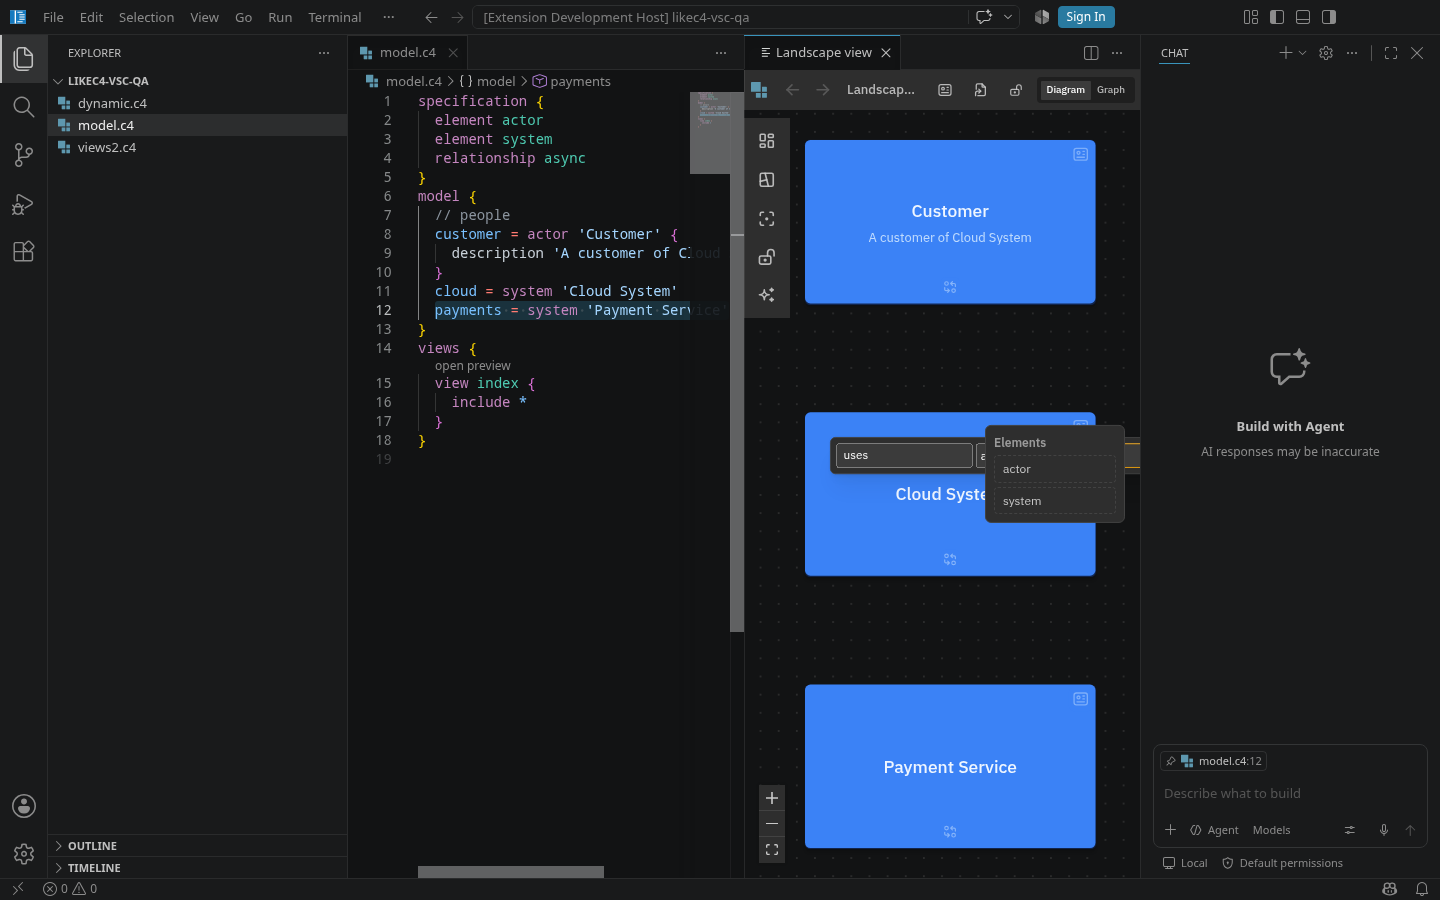
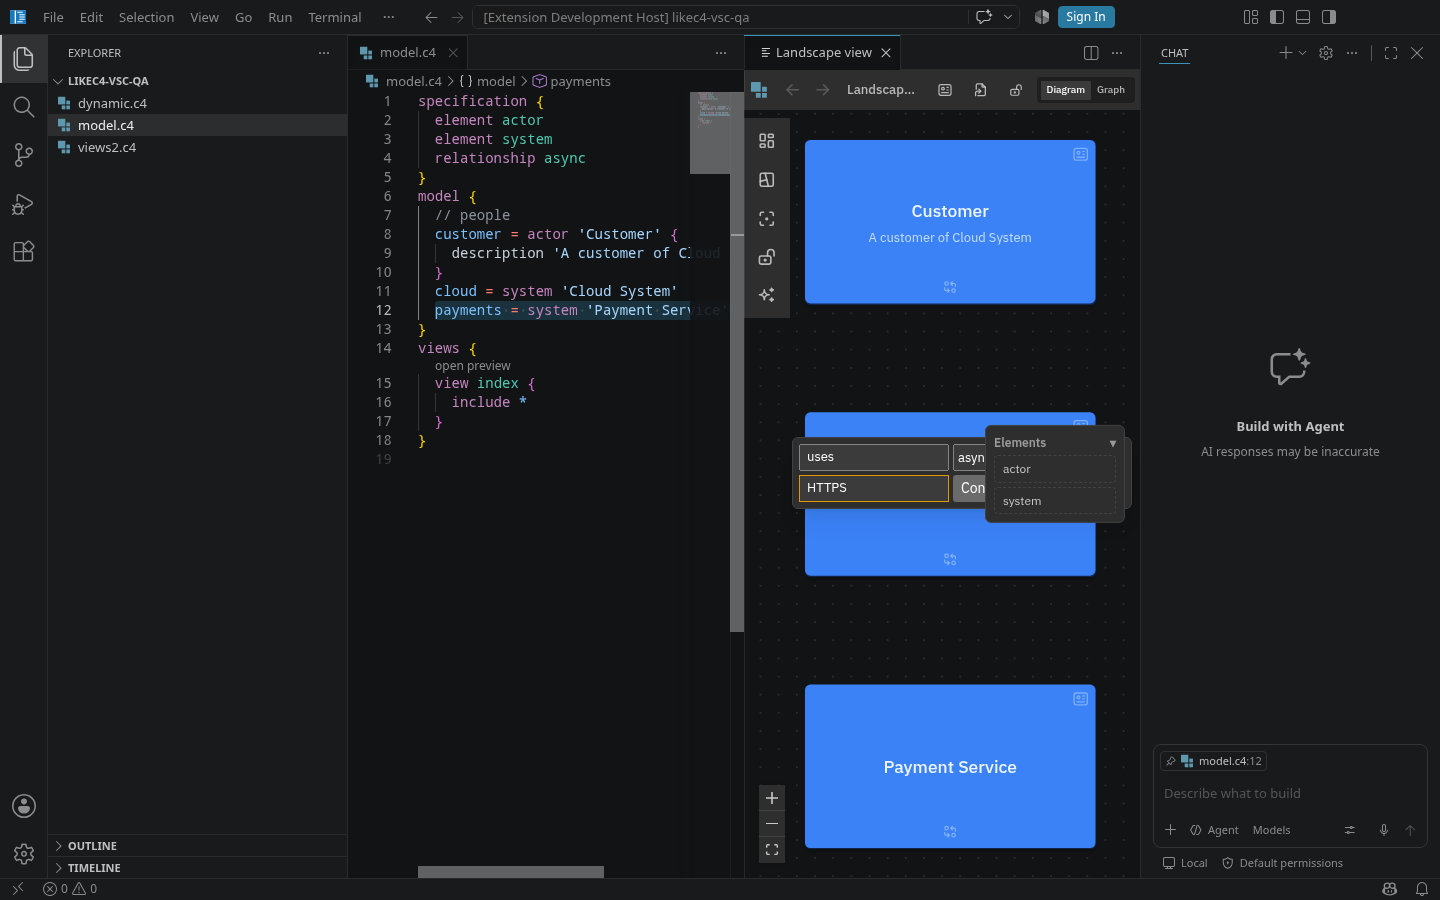
docs(visual-to-code): prompts and palette in the UI map, updated QA screenshots

Changed region(s): [[0.5312, 0.4667, 0.6875, 0.5911], [0.7812, 0.4978, 0.8125, 0.56]]

diff --git a/.compozy/tasks/visual-to-code/_uiux.md b/.compozy/tasks/visual-to-code/_uiux.md
@@ -150,6 +150,14 @@ ACs/ECs), `_dx.md` (the non-UI half of the surface).
   shows a blue info notification with the same text (auto-close 6 s).
 - **States**: hidden (auto layout, read-only), shown.
 
+### Prompts and palette (2026-10-19, UX follow-up of the QA pass)
+
+- The drop, connect and title prompts are rendered by `editor-ui/PromptPortal.tsx`, anchored at a
+  point of the canvas: above the nodes, clickable, at the same size whatever the zoom, and moved back
+  inside the canvas when they would overflow. Their fields wrap (max 340 px) in a narrow window.
+- The palette (S3) collapses by clicking its title (`aria-expanded`), to free the canvas in a narrow
+  window. It is a panel above the canvas, so a prompt under it is reached by collapsing it.
+
 ## Component plan
 
 ### Rules
